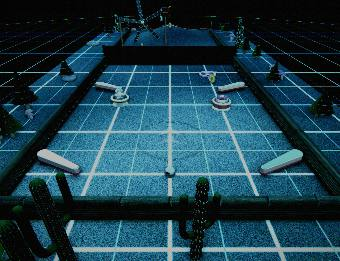
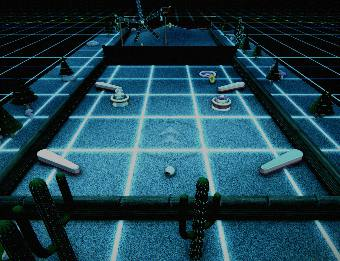
Neon-glow grid lines for tron + vaporwave (pingolf v376)
Owner's references have GLOWING neon lines; the grid lines were flat. Baked a glow halo
into the grid texture (canvas shadowBlur 12 + crisp core), drawn at the tile centre so it
tiles seamlessly without clipping. Both tron (cyan) and vaporwave (magenta) grids now glow
like real neon, deeper match to the reference images. Spreadsheet tron/vaporwave after-shots
re-captured with the glow. Verified: all moods render, holes 0/4/21 beatable, 0 errors.

diff --git a/GRAPHICS-OVERHAUL.html b/GRAPHICS-OVERHAUL.html
@@ -50,7 +50,7 @@
       <tr>
         <td class="el">Tron mood</td>
         <td><img src="gfx-shots/tron_now.jpg" alt="tron before"><div class="cap">v371 — tinted desert, NO grid</div></td>
-        <td><img src="gfx-shots/tron_after.jpg" alt="tron after"><div class="cap">v372 — glowing grid floor to the horizon</div></td>
+        <td><img src="gfx-shots/tron_after.jpg" alt="tron after"><div class="cap">v376 — glowing NEON grid (baked halo on lines)</div></td>
         <td class="changes">Added a procedural neon grid-floor: canvas cyan grid texture, additive blending, tracks the ground under the ball, 11000-unit plane so it recedes to the horizon. Visible only in tron; the dark surfaces keep their cyan edge-glow on top. Now reads as a Tron grid world (matches the reference's defining feature).</td>
         <td class="grade g7">3 → 7</td>
         <td class="next">To push higher: brighter neon bloom on the grid lines, a few red lanes like the reference, stronger cyan edge-glow on the obstacles.</td>
@@ -58,7 +58,7 @@
       <tr>
         <td class="el">Vaporwave mood</td>
         <td><img src="gfx-shots/vapor_now.jpg" alt="vaporwave before"><div class="cap">v371 — tinted desert, NO grid/sun</div></td>
-        <td><img src="gfx-shots/vapor_after.jpg" alt="vaporwave after"><div class="cap">v374 — magenta grid + purple sky + sun</div></td>
+        <td><img src="gfx-shots/vapor_after.jpg" alt="vaporwave after"><div class="cap">v376 — magenta NEON grid + purple sky + sun</div></td>
         <td class="changes">Magenta grid floor (shared neon-grid mesh, tinted magenta) + a custom vaporwave backdrop replacing the desert panorama: deep-purple sky gradient + a big orange→pink gradient sun with carved scanline bands. Now reads as a vaporwave grid world.</td>
         <td class="grade g7">3 → 7</td>
         <td class="next">The sun sits on the horizon, but the grazing top-down camera hides most of the sky behind the back wall, so it's subtle (more visible on open-back holes/angles). Could add cyan wireframe terrain on the flanks + brighter sun bloom.</td>

diff --git a/js/pingolf.js b/js/pingolf.js
@@ -769,8 +769,9 @@
     if (R3.tronGrid) return R3.tronGrid;
     var cv = document.createElement('canvas'); cv.width = cv.height = 128; var x = cv.getContext('2d');
     x.clearRect(0, 0, 128, 128);
-    x.lineWidth = 5; x.strokeStyle = '#ffffff'; x.strokeRect(0, 0, 128, 128);   // WHITE cell border (caller tints cyan/magenta)
-    x.lineWidth = 2; x.strokeStyle = 'rgba(255,255,255,0.5)'; x.beginPath(); x.moveTo(64, 0); x.lineTo(64, 128); x.moveTo(0, 64); x.lineTo(128, 64); x.stroke();   // dim mid-lines (denser lane feel)
+    x.shadowColor = '#ffffff'; x.shadowBlur = 12; x.lineCap = 'round';   // baked NEON GLOW halo around each grid line (the reference's lines glow, not flat)
+    x.lineWidth = 5; x.strokeStyle = '#ffffff'; x.beginPath(); x.moveTo(64, 0); x.lineTo(64, 128); x.moveTo(0, 64); x.lineTo(128, 64); x.stroke();   // lines at tile CENTRE → seamless tiling + glow not clipped at edges
+    x.shadowBlur = 0; x.lineWidth = 1.5; x.beginPath(); x.moveTo(64, 0); x.lineTo(64, 128); x.moveTo(0, 64); x.lineTo(128, 64); x.stroke();   // crisp bright core over the glow
     var tex = new T.CanvasTexture(cv); tex.wrapS = tex.wrapT = T.RepeatWrapping; tex.repeat.set(44, 44);
     var mat = new T.MeshBasicMaterial({ map: tex, transparent: true, blending: T.AdditiveBlending, depthWrite: false, opacity: 1, fog: false });
     var mesh = new T.Mesh(new T.PlaneGeometry(11000, 11000), mat); mesh.rotation.x = -PI / 2; mesh.renderOrder = 2; mesh.visible = false; mesh.frustumCulled = false;

diff --git a/game.html b/game.html
@@ -97,7 +97,7 @@
   <script src="vendor/three.min.js"></script>
   <script src="vendor/gifquick.js?v=2"></script>
   <script src="js/net.js?v=15"></script>
-  <script src="js/pingolf.js?v=375"></script>
+  <script src="js/pingolf.js?v=376"></script>
   <script>if('serviceWorker' in navigator){window.addEventListener('load',function(){navigator.serviceWorker.register('sw.js').catch(function(){});});}</script>
 </body>
 </html>
